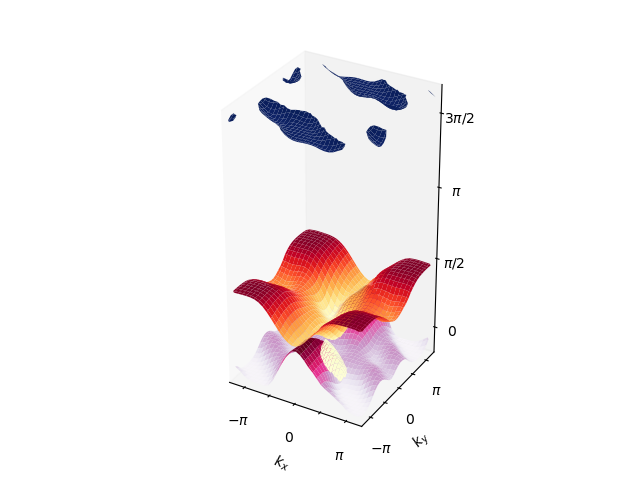
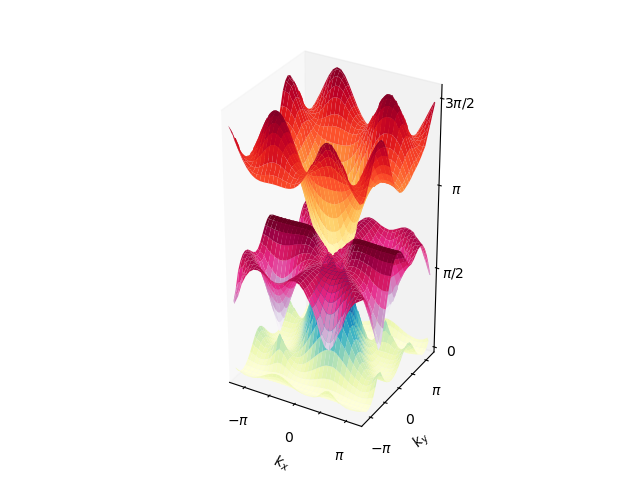
SP3

Changed region(s): [[0.3438, 0.125, 0.75, 0.875], [0.6875, 0.375, 0.7188, 0.4062], [0.3438, 0.2188, 0.375, 0.25]]

diff --git a/test.py b/test.py
@@ -2,7 +2,7 @@ import numpy as np
 from tight_binding.bandstructure import locate_nodes, plot_bandstructure2D
 from tight_binding.topology import locate_dirac_strings
 
-name = 'SP3_driven_Ax_w_dA_dC_1_10_-0.4_-7.6'
+name = 'SP3_driven_Ax_w_dA_dC_1_10_0_0'
 file = 'figures/square/SP3/driven/bandstructures/' + name + '/' + name + '_grids/' + name + '_grid.npy'
 energies = np.load(file)
 
